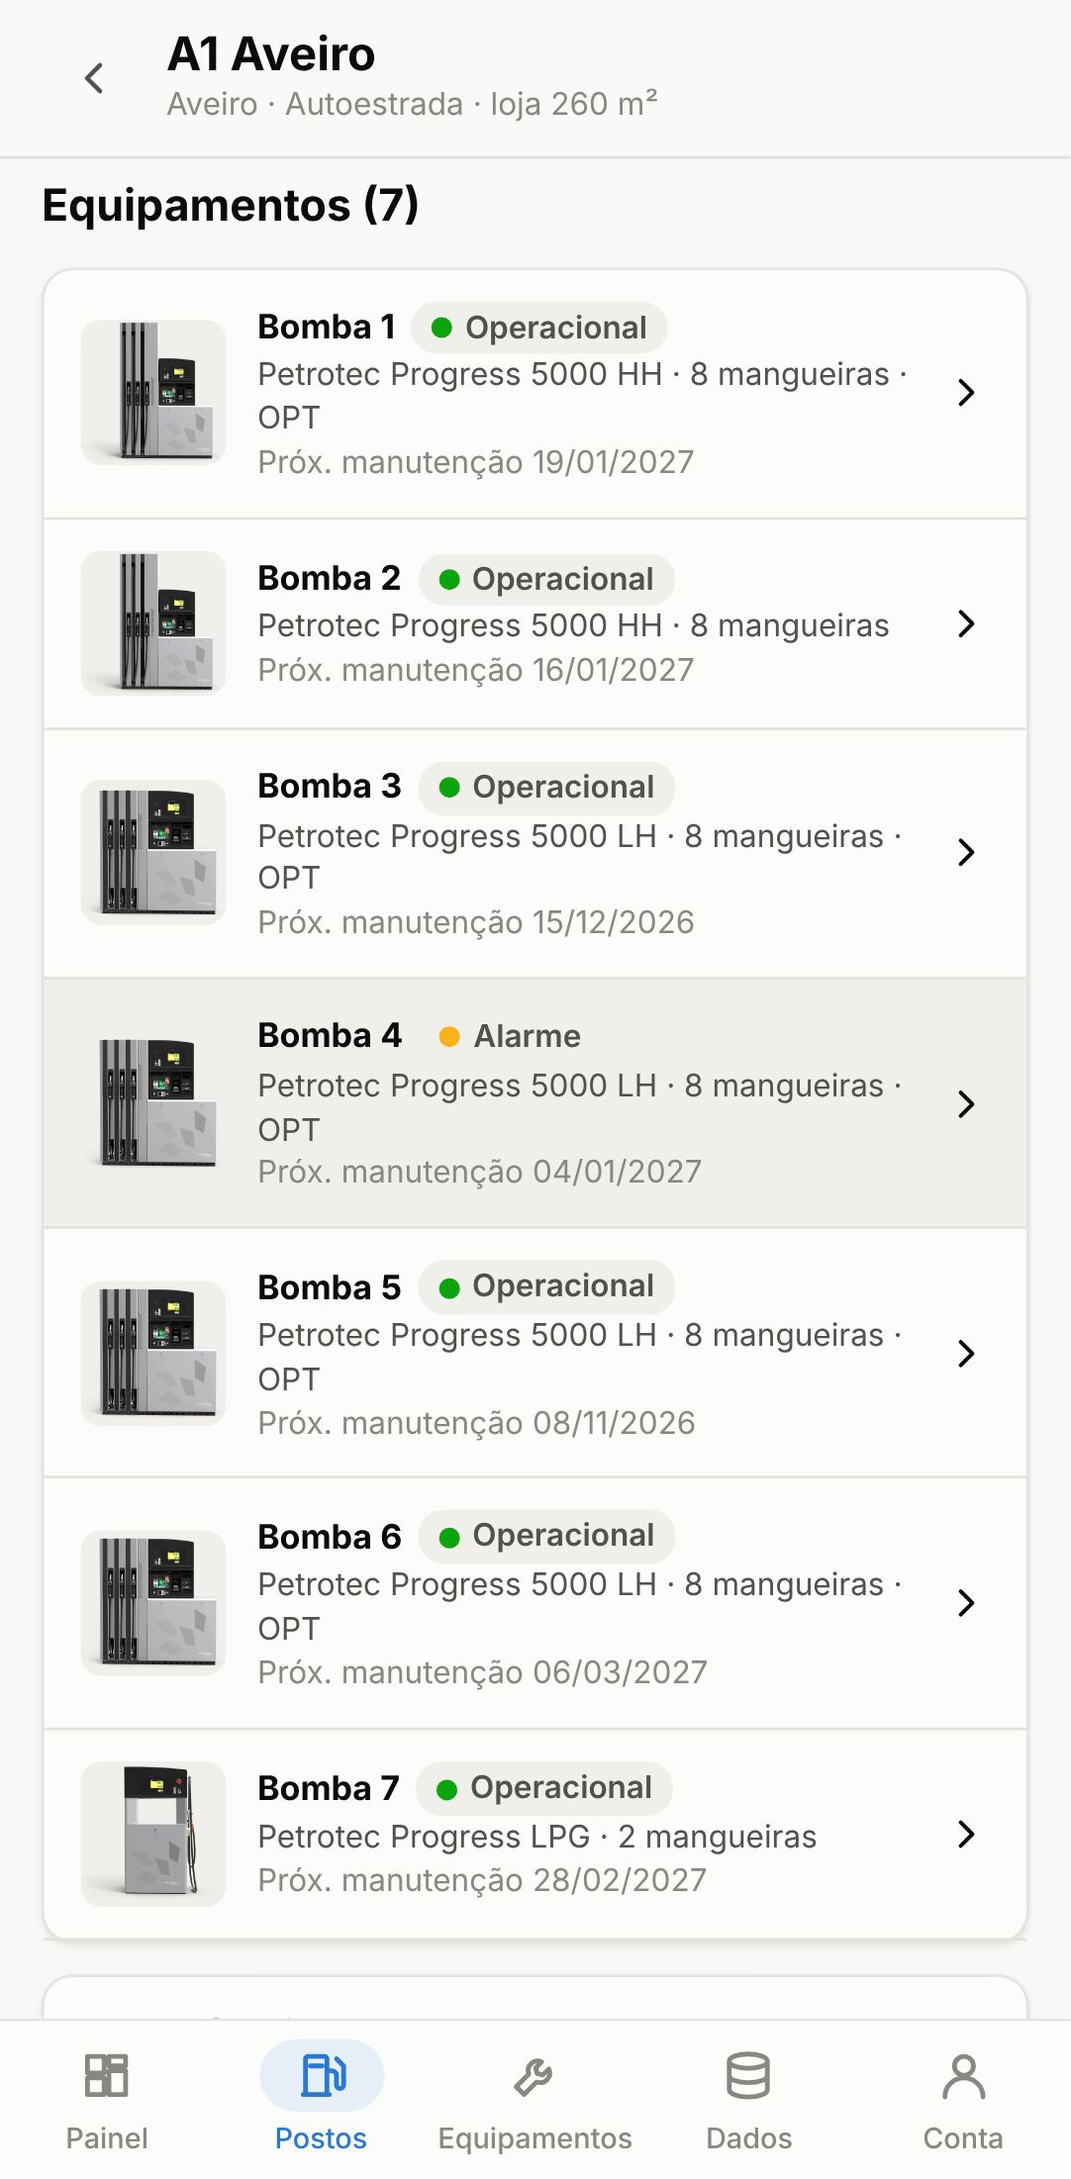
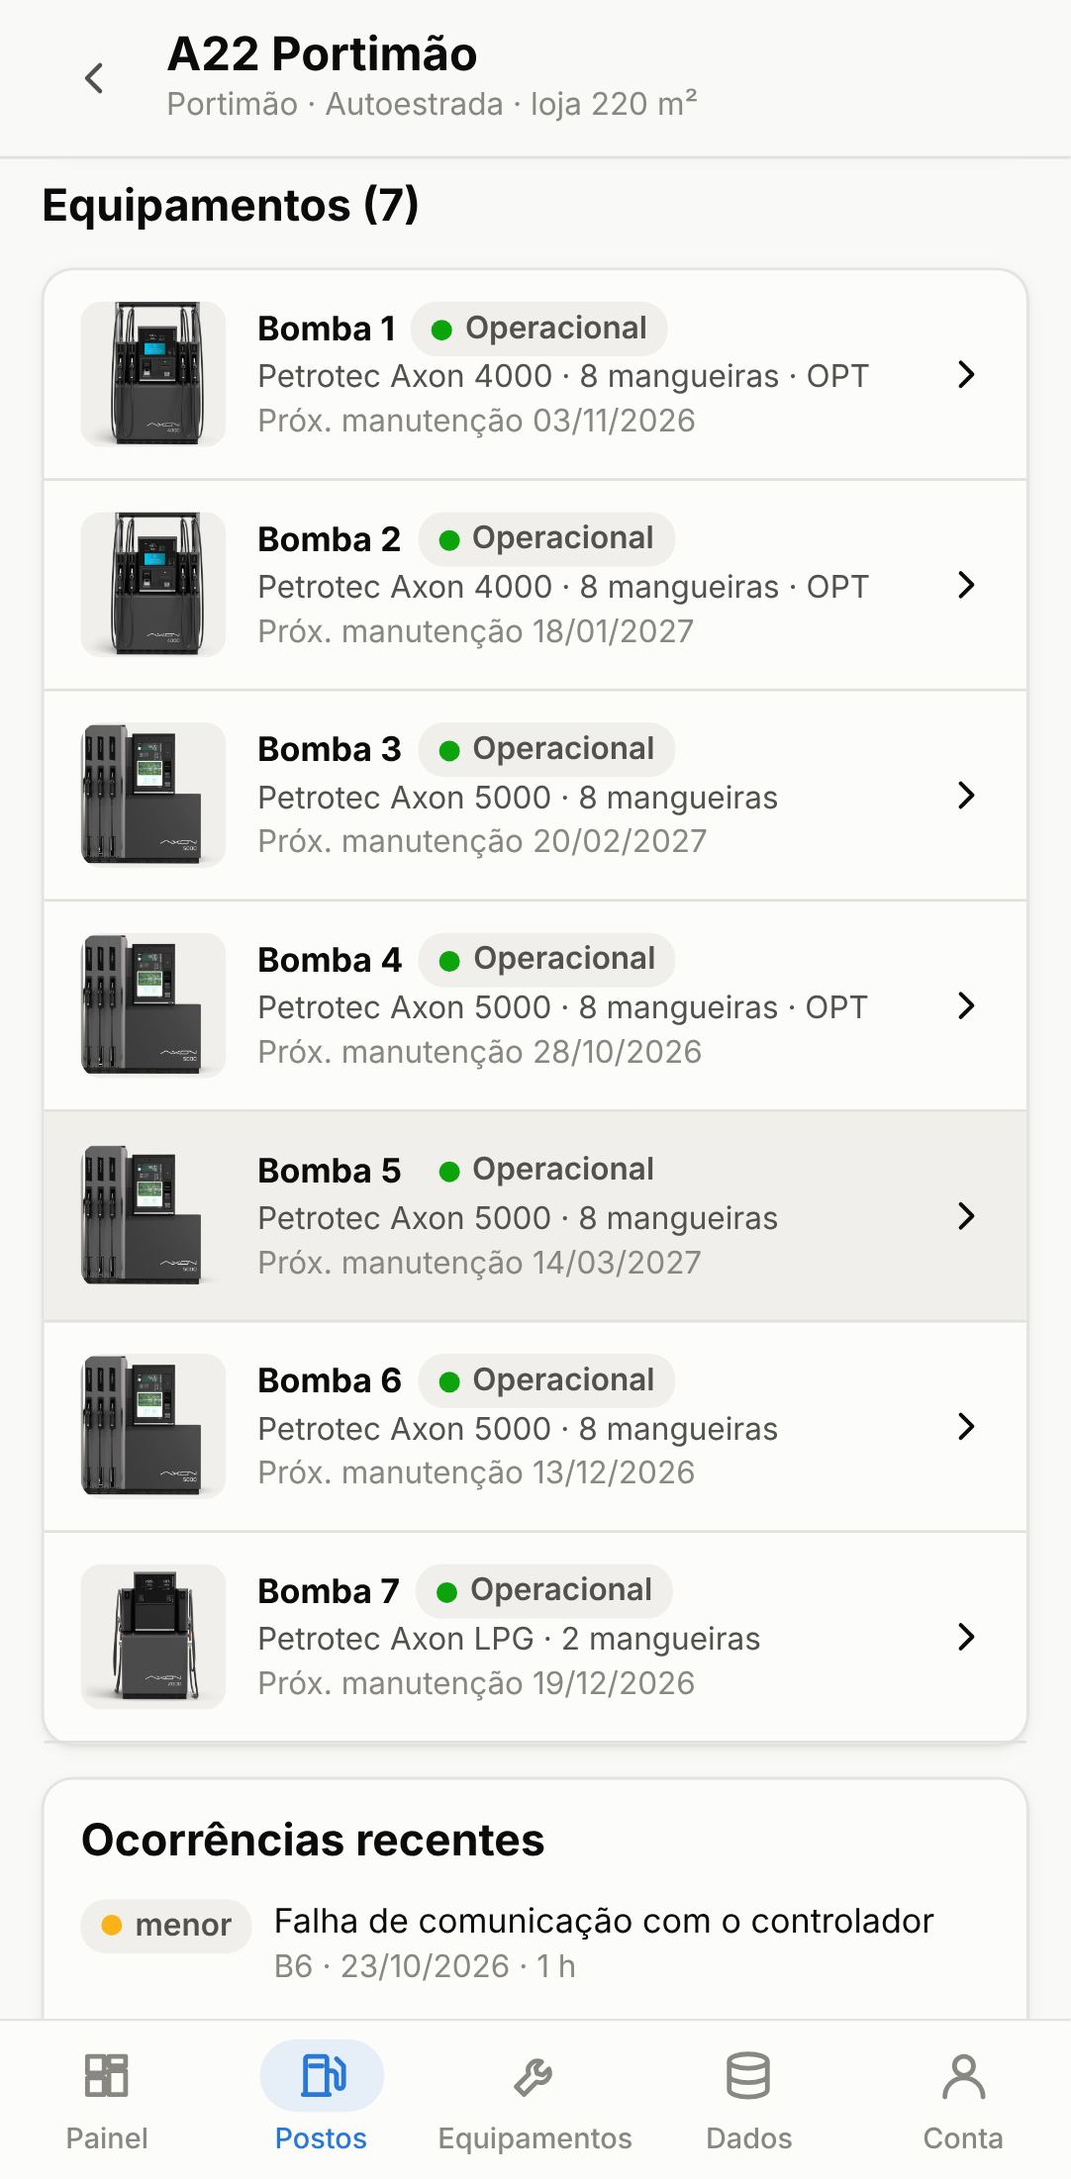
Add Petrotec Axon range with official images
- Catalogue: Axon 5000, Axon 4000, Axon 2000, Axon 1000 and Axon LPG,
  with specs and links from the official product pages (text that
  belongs to related Progress cards on those pages is not used).
- Official product images (petrotec.com, used with the company's
  authorisation) as ~1000px WebP, registered in the manifest.
- Simulation: A22 Portimão, Oeiras Marginal and Faro Centro are
  re-equipped with Axon in 2024-2025; hoses and OPT now follow each
  model's maxHoses/optCapable instead of hard-coded ids.
- Tests for hose limits, Axon installed base and image coverage.
- README, DADOS.md and screenshots updated.

Claude-Session: https://claude.ai/code/session_01TPHwaXRENLcediWk3nxh2C

diff --git a/fuel-hq/src/data/catalog.ts b/fuel-hq/src/data/catalog.ts
@@ -62,6 +62,95 @@ export const STATIONS: Station[] = [
  */
 export const EQUIPMENT_MODELS: EquipmentModel[] = [
   {
+    id: "axon-5000",
+    brand: "Petrotec",
+    name: "Axon 5000",
+    family: "Axon (retalho)",
+    summary: "O dispensador mais personalizável da gama Axon, com todas as opções de multimédia e sistemas de pagamento.",
+    specs: [
+      { label: "Produtos / mangueiras", value: "até 5 produtos / 12 mangueiras" },
+      { label: "Caudais", value: "10, 40, 80 e 130 L/min (assinalados com * no site)" },
+      { label: "Mangueira", value: "retração total ou parcial" },
+      { label: "Pagamento", value: "integração de OPT e multimédia" },
+      { label: "Construção", value: "alumínio com pintura dupla, proteção UV" },
+    ],
+    sourceUrl: "https://www.petrotec.com/products/axon-5000",
+    sourceLabel: "petrotec.com — Axon 5000",
+    products: ["gasoleo", "g95", "gasoleo_plus", "g98"],
+    maxHoses: 12,
+    optCapable: true,
+  },
+  {
+    id: "axon-4000",
+    brand: "Petrotec",
+    name: "Axon 4000",
+    family: "Axon (retalho)",
+    summary: "Versão em H da gama Axon, com dois formatos possíveis consoante a pista e o número de mangueiras; todas as funcionalidades ocupando menos espaço.",
+    specs: [
+      { label: "Formato", value: "H-style (dois formatos)" },
+      { label: "Pagamento", value: "OPT ou ecrã multimédia autónomo; integra sistemas de terceiros" },
+      { label: "Ecrã", value: "tátil" },
+      { label: "Produtos / mangueiras", value: "não indicado na página — confirmar com a Petrotec" },
+    ],
+    sourceUrl: "https://www.petrotec.com/products/axon-4000",
+    sourceLabel: "petrotec.com — Axon 4000",
+    products: ["gasoleo", "g95", "gasoleo_plus", "g98"],
+    maxHoses: 8,
+    optCapable: true,
+  },
+  {
+    id: "axon-2000",
+    brand: "Petrotec",
+    name: "Axon 2000",
+    family: "Axon (retalho)",
+    summary: "Alto desempenho para pistas com pouco espaço, com eletrónica, hidráulica e materiais premium.",
+    specs: [
+      { label: "Mangueiras", value: "até 2" },
+      { label: "Produtos", value: "vários tipos de combustível" },
+      { label: "Construção", value: "alumínio com pintura dupla, proteção UV" },
+    ],
+    sourceUrl: "https://www.petrotec.com/products/axon-2000",
+    sourceLabel: "petrotec.com — Axon 2000",
+    products: ["gasoleo", "g95"],
+    maxHoses: 2,
+    optCapable: false,
+  },
+  {
+    id: "axon-1000",
+    brand: "Petrotec",
+    name: "Axon 1000",
+    family: "Axon (retalho)",
+    summary: "Modelo de entrada da gama Axon, com a menor área ocupada e as mesmas tecnologias base da linha premium.",
+    specs: [
+      { label: "Produtos", value: "1 grelha (1 ou 2 mangueiras) ou 2 produtos" },
+      { label: "Caudal", value: "até 130 L/min" },
+      { label: "Versões", value: "caixa normal ou braço aéreo" },
+      { label: "Construção", value: "aço inox 304 ou 316; ecrã maior e mais luminoso" },
+    ],
+    sourceUrl: "https://www.petrotec.com/products/axon-1000",
+    sourceLabel: "petrotec.com — Axon 1000",
+    products: ["gasoleo"],
+    maxHoses: 2,
+    optCapable: false,
+  },
+  {
+    id: "axon-lpg",
+    brand: "Petrotec",
+    name: "Axon LPG",
+    family: "Axon (GPL)",
+    summary: "Dispensadores de GPL Auto da gama Axon: Axon 2000 LPG (compacto), Axon 5000 LPG standalone e Axon 5000 LPG combo (GPL com outros produtos).",
+    specs: [
+      { label: "Mangueiras", value: "1 ou 2, com várias opções de suporte de bico GPL" },
+      { label: "Caudal", value: "até 60 L/min (Axon 5000 LPG standalone)" },
+      { label: "Modelos", value: "Axon 2000 LPG, Axon 5000 LPG standalone e combo" },
+    ],
+    sourceUrl: "https://www.petrotec.com/products/axon-lpg",
+    sourceLabel: "petrotec.com — Axon LPG",
+    products: ["gpl"],
+    maxHoses: 2,
+    optCapable: false,
+  },
+  {
     id: "p5000-lh",
     brand: "Petrotec",
     name: "Progress 5000 LH",
@@ -77,6 +166,8 @@ export const EQUIPMENT_MODELS: EquipmentModel[] = [
     sourceUrl: "https://www.petrotec.com/products/p5000-lh",
     sourceLabel: "petrotec.com — Progress 5000 LH",
     products: ["gasoleo", "g95", "gasoleo_plus", "g98"],
+    maxHoses: 10,
+    optCapable: true,
   },
   {
     id: "p5000-hh",
@@ -93,6 +184,8 @@ export const EQUIPMENT_MODELS: EquipmentModel[] = [
     sourceUrl: "https://www.petrotec.com/products/p5000-hh",
     sourceLabel: "petrotec.com — Progress 5000 HH",
     products: ["gasoleo", "g95", "gasoleo_plus", "g98"],
+    maxHoses: 8,
+    optCapable: true,
   },
   {
     id: "p1000r",
@@ -109,6 +202,8 @@ export const EQUIPMENT_MODELS: EquipmentModel[] = [
     sourceUrl: "https://www.petrotec.com/products/p1000-r",
     sourceLabel: "petrotec.com — Progress 1000 Retail",
     products: ["gasoleo"],
+    maxHoses: 2,
+    optCapable: false,
   },
   {
     id: "progress-lpg",
@@ -124,6 +219,8 @@ export const EQUIPMENT_MODELS: EquipmentModel[] = [
     sourceUrl: "https://www.petrotec.com/products/progress-lpg",
     sourceLabel: "petrotec.com — Progress LPG",
     products: ["gpl"],
+    maxHoses: 2,
+    optCapable: false,
   },
   {
     id: "euro2000-vi",
@@ -138,6 +235,8 @@ export const EQUIPMENT_MODELS: EquipmentModel[] = [
     sourceUrl: "https://assets.publishing.service.gov.uk/media/5a7c141940f0b61a825d6506/UK-2780-revision-3.pdf",
     sourceLabel: "Certificado de aprovação UK-2780 (gov.uk)",
     products: ["gasoleo", "g95", "gasoleo_plus"],
+    maxHoses: 8,
+    optCapable: false,
   },
 ];
 

diff --git a/fuel-hq/src/data/simulate.ts b/fuel-hq/src/data/simulate.ts
@@ -86,21 +86,33 @@ const INCIDENT_KINDS = [
   "Calibração fora de tolerância",
 ];
 
+/** Postos remodelados recentemente com a gama Axon (pressuposto da simulação). */
+const AXON_PLAN: Partial<Record<string, (i: number) => string>> = {
+  portimao: (i) => (i < 2 ? "axon-4000" : "axon-5000"),
+  oeiras: (i) => (i < 2 ? "axon-5000" : "axon-2000"),
+  faro: (i) => (i < 2 ? "axon-2000" : "axon-1000"),
+};
+
 function dispenserPlan(st: Station): string[] {
   const n = st.type === "autoestrada" ? 6 : st.baseDailyL >= 9000 ? 5 : st.baseDailyL >= 6000 ? 4 : 3;
   const legacy = ["guimaraes", "setubal", "evora"].includes(st.id);
+  const axon = AXON_PLAN[st.id];
   const models: string[] = [];
   for (let i = 0; i < n; i++) {
-    if (st.type === "autoestrada") models.push(i < 2 ? "p5000-hh" : "p5000-lh");
+    if (axon) models.push(axon(i));
+    else if (st.type === "autoestrada") models.push(i < 2 ? "p5000-hh" : "p5000-lh");
     else if (legacy) models.push(i === 0 ? "p5000-lh" : "euro2000-vi");
     else if (st.baseDailyL < 7000) models.push(i < 2 ? "p5000-lh" : "p1000r");
     else models.push("p5000-lh");
   }
-  if (st.tanks.some((t) => t.product === "gpl")) models.push("progress-lpg");
+  if (st.tanks.some((t) => t.product === "gpl")) models.push(axon ? "axon-lpg" : "progress-lpg");
   return models;
 }
 
-const FAILURE_RATE: Record<string, number> = { "p5000-lh": 1 / 70, "p5000-hh": 1 / 65, p1000r: 1 / 50, "progress-lpg": 1 / 45, "euro2000-vi": 1 / 25 };
+const FAILURE_RATE: Record<string, number> = {
+  "p5000-lh": 1 / 70, "p5000-hh": 1 / 65, p1000r: 1 / 50, "progress-lpg": 1 / 45, "euro2000-vi": 1 / 25,
+  "axon-5000": 1 / 90, "axon-4000": 1 / 90, "axon-2000": 1 / 85, "axon-1000": 1 / 80, "axon-lpg": 1 / 60,
+};
 
 export function simulate(seed = 20261110): Dataset {
   const rand = mulberry32(seed);
@@ -119,7 +131,8 @@ export function simulate(seed = 20261110): Dataset {
     plan.forEach((modelId, pos) => {
       const model = EQUIPMENT_MODELS.find((m) => m.id === modelId)!;
       const legacy = modelId === "euro2000-vi";
-      const installYear = legacy ? 2012 + Math.floor(rand() * 4) : 2019 + Math.floor(rand() * 6);
+      const yearRoll = Math.floor(rand() * 6);
+      const installYear = legacy ? 2012 + (yearRoll % 4) : modelId.startsWith("axon") ? 2024 + (yearRoll % 2) : 2019 + yearRoll;
       const installedOn = `${installYear}-${String(1 + Math.floor(rand() * 12)).padStart(2, "0")}-${String(1 + Math.floor(rand() * 27)).padStart(2, "0")}`;
       const lastMaint = lastDay - Math.floor(rand() * 200);
       const id = `${st.id}-B${pos + 1}`;
@@ -135,9 +148,9 @@ export function simulate(seed = 20261110): Dataset {
         nextMaintenance: fromDay(lastMaint + 182),
         status: "operacional",
         totalizerL: 0,
-        hoses: modelId === "progress-lpg" ? 2 : Math.min(products.length * 2, modelId === "p5000-lh" ? 10 : 8),
+        hoses: Math.max(1, Math.min(products.length * 2, model.maxHoses)),
         products,
-        opt: modelId.startsWith("p5000") && rand() < 0.6,
+        opt: model.optCapable && rand() < 0.6,
       };
       const share = 1 / plan.length;
       const daysSince = lastDay - toDay(installedOn);

diff --git a/fuel-hq/tests/equipment.test.ts b/fuel-hq/tests/equipment.test.ts
@@ -1,0 +1,36 @@
+import { readFileSync } from "node:fs";
+import { describe, expect, it } from "vitest";
+import { EQUIPMENT_MODELS, modelById } from "../src/data/catalog";
+import { simulate } from "../src/data/simulate";
+
+const ds = simulate();
+const manifest = JSON.parse(readFileSync(new URL("../public/equipment/manifest.json", import.meta.url), "utf-8")) as { images: Record<string, string> };
+
+describe("equipamentos", () => {
+  it("cada dispensador simulado respeita o nº máximo de mangueiras do modelo", () => {
+    for (const d of ds.dispensers) {
+      const m = modelById.get(d.modelId)!;
+      expect(d.hoses).toBeGreaterThanOrEqual(1);
+      expect(d.hoses).toBeLessThanOrEqual(m.maxHoses);
+      if (d.opt) expect(m.optCapable).toBe(true);
+    }
+  });
+
+  it("a gama Axon está instalada nos postos remodelados", () => {
+    const models = (st: string) => new Set(ds.dispensers.filter((d) => d.stationId === st).map((d) => d.modelId));
+    expect([...models("portimao")].sort()).toEqual(["axon-4000", "axon-5000", "axon-lpg"]);
+    expect([...models("oeiras")].sort()).toEqual(["axon-2000", "axon-5000"]);
+    expect([...models("faro")].sort()).toEqual(["axon-1000", "axon-2000"]);
+    expect(ds.dispensers.filter((d) => d.modelId.startsWith("axon")).every((d) => d.installedOn >= "2024")).toBe(true);
+  });
+
+  it("todos os modelos têm imagem oficial registada, exceto o EURO 2000 VI", () => {
+    for (const m of EQUIPMENT_MODELS) {
+      if (m.id === "euro2000-vi") expect(manifest.images[m.id]).toBeUndefined();
+      else {
+        expect(manifest.images[m.id]).toBe(`${m.id}.webp`);
+        expect(() => readFileSync(new URL(`../public/equipment/${m.id}.webp`, import.meta.url))).not.toThrow();
+      }
+    }
+  });
+});

diff --git a/fuel-hq/src/pages/EquipmentPage.tsx b/fuel-hq/src/pages/EquipmentPage.tsx
@@ -52,7 +52,7 @@ export function EquipmentPage({ modelId }: { modelId?: string }) {
       <header className="topbar">
         <div style={{ flex: 1 }}>
           <h1>Equipamentos</h1>
-          <div className="sub">Dispensadores Petrotec instalados na rede</div>
+          <div className="sub">Dispensadores Petrotec (gamas Axon e Progress) instalados na rede</div>
         </div>
       </header>
       <main className="content stack">

diff --git a/fuel-hq/src/data/types.ts b/fuel-hq/src/data/types.ts
@@ -49,6 +49,10 @@ export interface EquipmentModel {
   sourceUrl?: string;
   sourceLabel?: string;
   products: ProductId[];
+  /** Nº máximo de mangueiras usado pelo simulador (a partir da ficha oficial quando existe). */
+  maxHoses: number;
+  /** Pode ter OPT / terminal de pagamento integrado. */
+  optCapable: boolean;
 }
 
 export interface Incident {

diff --git a/fuel-hq/DADOS.md b/fuel-hq/DADOS.md
@@ -77,14 +77,19 @@ Modelos em `src/data/catalog.ts`. As características foram retiradas das págin
 
 | Modelo | Informação usada | Fonte |
 |---|---|---|
+| Axon 5000 | o mais personalizável da gama Axon; até 5 produtos / 12 mangueiras; caudais de 10, 40, 80 e 130 L/min (com asterisco no site); retração total ou parcial da mangueira; integração de OPT e multimédia | https://www.petrotec.com/products/axon-5000 |
+| Axon 4000 | versão em H da gama Axon, com dois formatos; OPT ou ecrã multimédia autónomo; integra sistemas de terceiros; ecrã tátil. **Nº de produtos/mangueiras não indicado** na página (um texto com «até 4 grelhas / 8 mangueiras» nessa página pertence ao cartão do P4000, da gama Progress) | https://www.petrotec.com/products/axon-4000 |
+| Axon 2000 | alto desempenho em pistas com pouco espaço; até 2 mangueiras e vários tipos de combustível (o texto «até 200 L/min» nessa página pertence ao cartão do P2000) | https://www.petrotec.com/products/axon-2000 |
+| Axon 1000 | modelo de entrada da gama Axon; 1 grelha com 1 ou 2 mangueiras (ou 2 produtos); até 130 L/min; caixa normal ou braço aéreo; aço inox 304 ou 316 | https://www.petrotec.com/products/axon-1000 |
+| Axon LPG | Axon 2000 LPG, Axon 5000 LPG standalone (1 ou 2 mangueiras, até 60 L/min) e Axon 5000 LPG combo | https://www.petrotec.com/products/axon-lpg |
 | Progress 5000 LH | até 5 grelhas de combustível e 10 mangueiras; até 130 L/min; combinável com GPL e AdBlue (com aquecimento); retração elástica da mangueira; todas as opções multimédia/pagamento | https://www.petrotec.com/products/p5000-lh |
 | Progress 5000 HH | versão de mangueira suspensa; até 4 grelhas, 8 mangueiras e 130 L/min (a mesma página também refere «até 5 grelhas e 10 mangueiras»: **inconsistência no site, confirmar com a Petrotec**) | https://www.petrotec.com/products/p5000-hh |
 | Progress 1000 Retail (P1000 R) | modelo de entrada da gama Progress para retalho; 1 grelha, 1 ou 2 mangueiras; até 130 L/min; mangueira normal ou braço aéreo | https://www.petrotec.com/products/p1000-r |
 | Progress LPG | gama de GPL (Progress 5000 LPG standalone e combo, Progress 2000 LPG, Progress 1500 LPG); 1 ou 2 mangueiras; até 60 L/min | https://www.petrotec.com/products/progress-lpg |
 | EURO 2000 VI | até 4 produtos e 8 mangueiras (geração anterior, não listada no site atual) | certificado UK-2780 (gov.uk): https://assets.publishing.service.gov.uk/media/5a7c141940f0b61a825d6506/UK-2780-revision-3.pdf |
 
-O site da Petrotec lista ainda outros dispensadores que **não** estão no catálogo da app (gama Axon 1000/2000/4000/5000 e Axon LPG; Progress P1000, P1500, P2000, P3000, P4000; Progress AdBlue; Eurotank AdBlue III). Podem ser acrescentados se fizerem parte do parque da empresa.
+O site da Petrotec lista ainda outros dispensadores que **não** estão no catálogo da app (Progress P1000, P1500, P2000, P3000, P4000; Progress AdBlue; Eurotank AdBlue III). Podem ser acrescentados se fizerem parte do parque da empresa.
 
-Números de série (prefixo `DEMO-`), datas de instalação, totalizadores, estados e ocorrências são **simulados**.
+Números de série (prefixo `DEMO-`), datas de instalação, totalizadores, estados e ocorrências são **simulados**. Na simulação, três postos foram «remodelados» com a gama Axon em 2024–2025 (A22 Portimão: Axon 4000/5000 e Axon LPG; Oeiras Marginal: Axon 5000/2000; Faro Centro: Axon 2000/1000), com taxa de avarias mais baixa do que os modelos mais antigos (pressuposto).
 
-**Imagens:** imagens oficiais de produto descarregadas de petrotec.com a 11/11/2026 e usadas com autorização da empresa (ver README, secção «Imagens dos equipamentos Petrotec»). A imagem da gama Progress LPG mostra o modelo Progress 2000 LPG. O EURO 2000 VI não tem imagem oficial no site atual e mostra uma ilustração genérica.
+**Imagens:** imagens oficiais de produto descarregadas de petrotec.com a 11/11/2026 e usadas com autorização da empresa (ver README, secção «Imagens dos equipamentos Petrotec»). A imagem da gama Progress LPG mostra o modelo Progress 2000 LPG e a da gama Axon LPG mostra o Axon 2000 LPG. O EURO 2000 VI não tem imagem oficial no site atual e mostra uma ilustração genérica.

diff --git a/fuel-hq/README.md b/fuel-hq/README.md
@@ -23,7 +23,7 @@ App móvel (Android) para a sede acompanhar uma rede de postos: vendas de combus
   - **Construtor de gráficos**: escolher métrica (22 indicadores), dimensão do eixo (tempo, posto, produto, região, tipologia, dia da semana, hora), desagregação em séries, filtros próprios, ordenação e nº de séries antes de agrupar em «Outros». Pré-visualização em tempo real.
   - Cada gráfico tem **vista de tabela** e vista **expandida**.
 - **Postos**: lista com indicadores dos últimos 30 dias, alertas de tanques e equipamentos; detalhe com níveis dos tanques, bombas e ocorrências.
-- **Equipamentos**: catálogo de modelos Petrotec (Progress 5000 LH/HH, Progress 1000 Retail, Progress LPG, EURO 2000 VI) com imagens oficiais, características e ligação à página do produto; parque instalado com estado, disponibilidade a 90 dias, totalizador e manutenções em atraso.
+- **Equipamentos**: catálogo de modelos Petrotec — gama **Axon** (5000, 4000, 2000, 1000, LPG), gama **Progress** (5000 LH, 5000 HH, 1000 Retail, LPG) e EURO 2000 VI — com imagens oficiais, características e ligação à página do produto; parque instalado com estado, disponibilidade a 90 dias, totalizador e manutenções em atraso.
 - **Dados**: explicação do que é real/simulado, tabela de fontes dos preços, e **importação de CSV** (formato português) para criar gráficos com os seus próprios dados — por exemplo, exportações do portal de preços da DGEG.
 - Tema claro/escuro, interface em português, pensada para telemóvel (funciona também em tablet/desktop).
 
@@ -66,11 +66,16 @@ A app é construída com **Capacitor** (React + TypeScript dentro de um WebView 
 
 ## Imagens dos equipamentos Petrotec
 
-A app inclui as **imagens oficiais** de quatro modelos, descarregadas de [petrotec.com](https://www.petrotec.com/product-category/fuel-dispensers) a 11/11/2026 e usadas com autorização da empresa. Estão em `public/equipment/` (WebP, ≈1000 px, 40–65 KB cada) e registadas em `public/equipment/manifest.json`:
+A app inclui as **imagens oficiais** de nove modelos, descarregadas de [petrotec.com](https://www.petrotec.com/product-category/fuel-dispensers) a 11/11/2026 e usadas com autorização da empresa. Estão em `public/equipment/` (WebP, ≈1000 px, 40–65 KB cada) e registadas em `public/equipment/manifest.json`:
 
 | Modelo (id) | Ficheiro | Origem |
 |---|---|---|
-| Progress 5000 LH (`p5000-lh`) | `p5000-lh.webp` | imagem do produto na página de dispensadores |
+| Axon 5000 (`axon-5000`) | `axon-5000.webp` | imagem do produto na página de dispensadores |
+| Axon 4000 (`axon-4000`) | `axon-4000.webp` | idem |
+| Axon 2000 (`axon-2000`) | `axon-2000.webp` | idem |
+| Axon 1000 (`axon-1000`) | `axon-1000.webp` | idem |
+| Axon LPG (`axon-lpg`) | `axon-lpg.webp` | imagem do **Axon 2000 LPG**, usada pela Petrotec para a gama Axon LPG |
+| Progress 5000 LH (`p5000-lh`) | `p5000-lh.webp` | idem |
 | Progress 5000 HH (`p5000-hh`) | `p5000-hh.webp` | idem |
 | Progress 1000 Retail (`p1000r`) | `p1000r.webp` | idem |
 | Progress LPG (`progress-lpg`) | `progress-lpg.webp` | imagem do **Progress 2000 LPG**, usada pela Petrotec para a gama Progress LPG |
